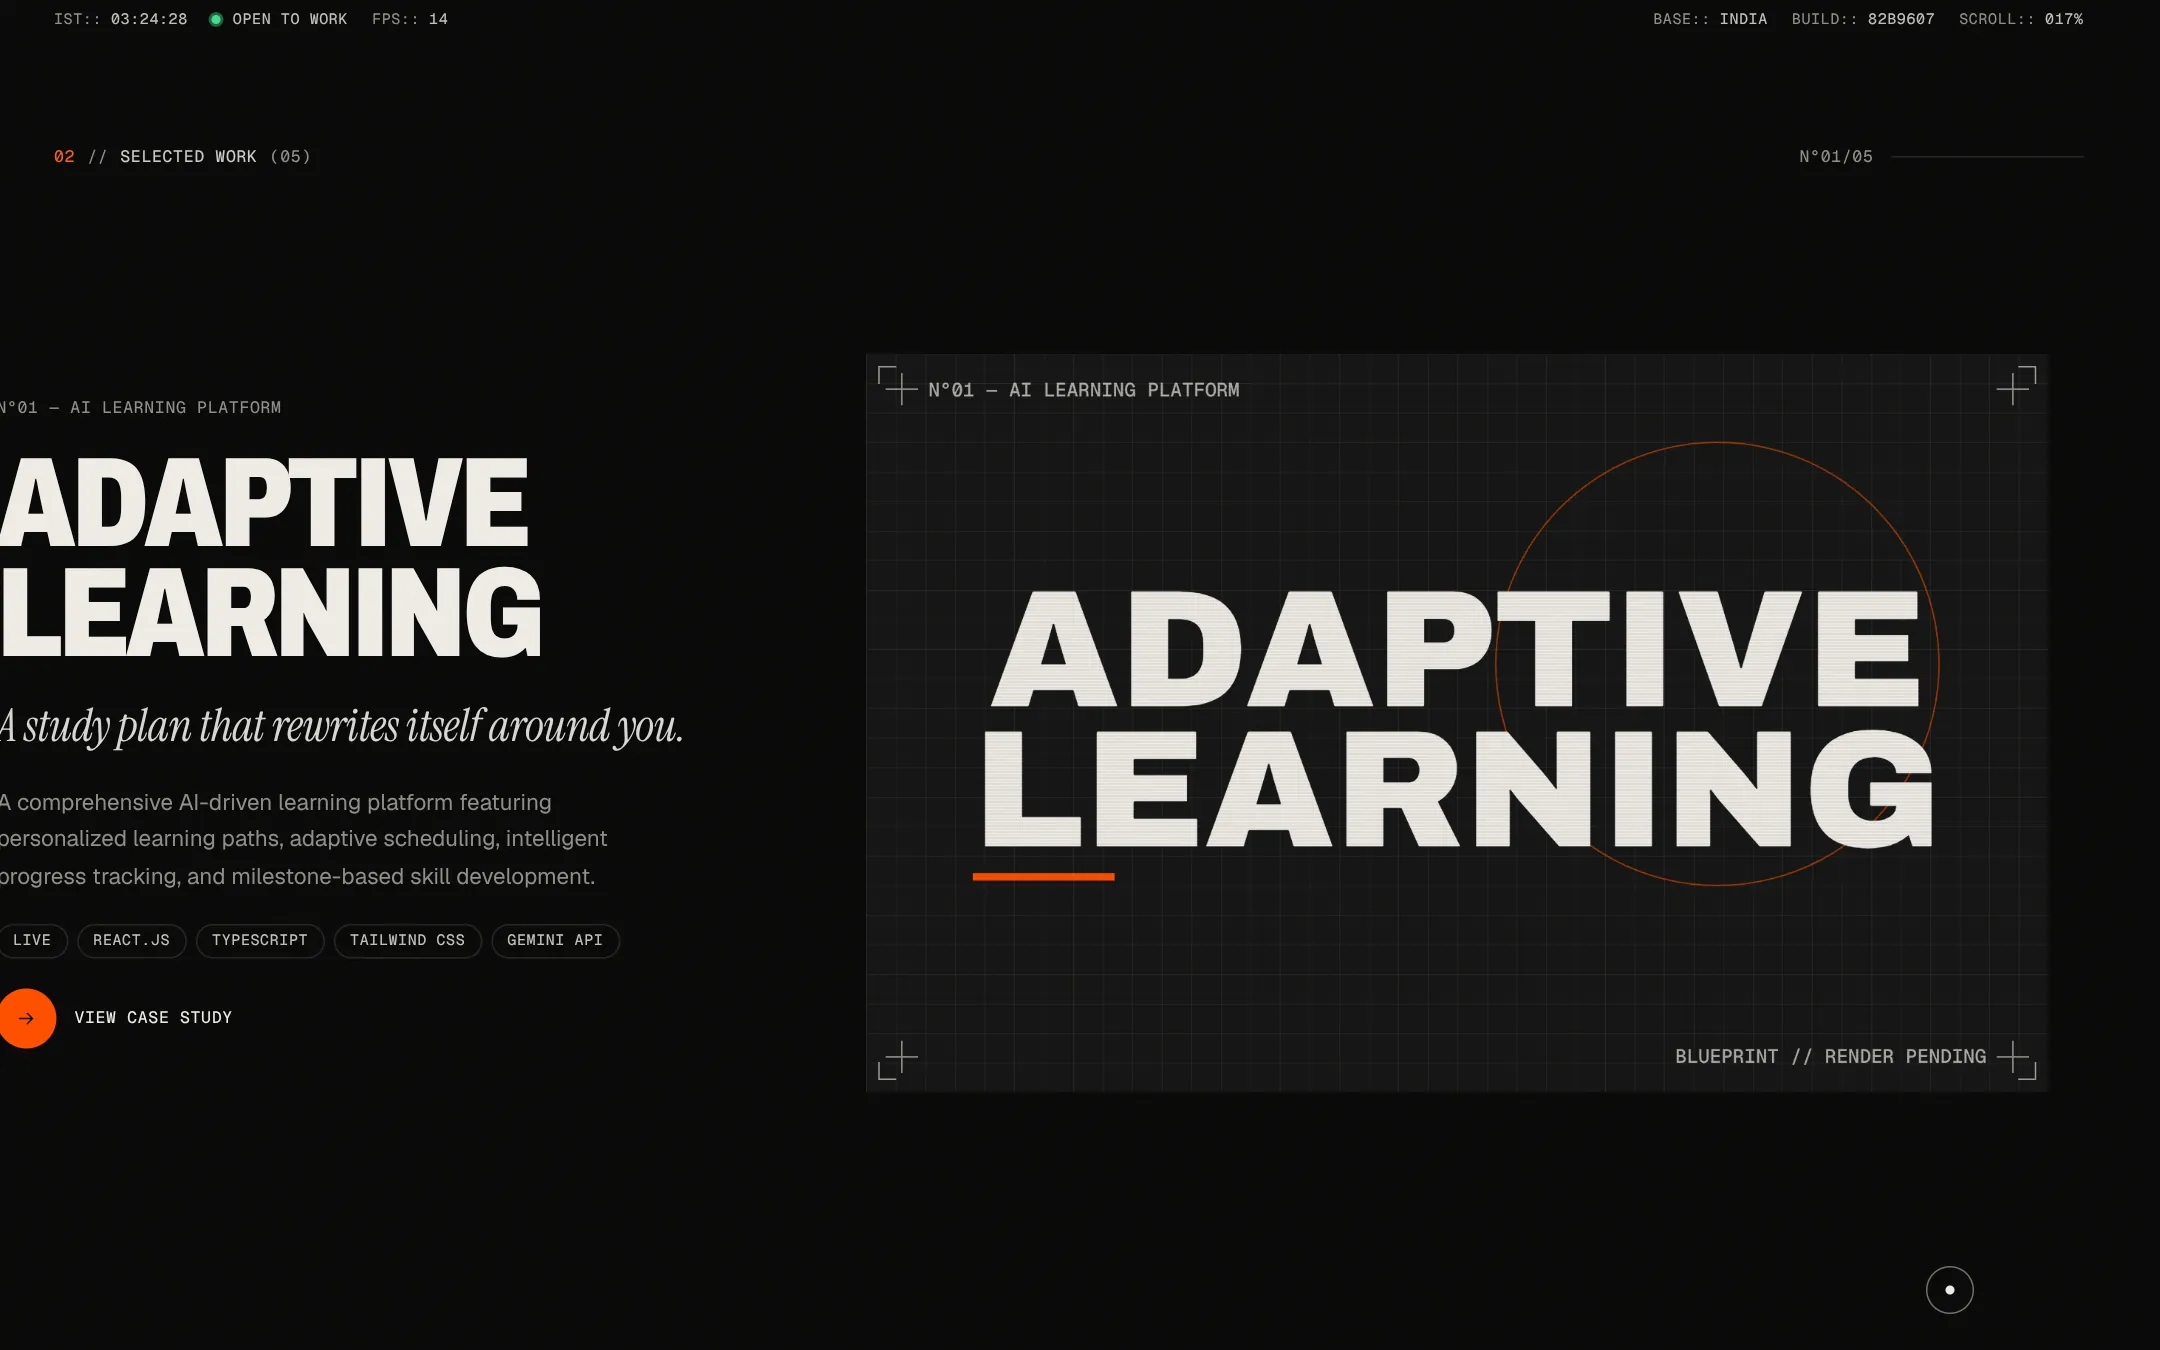
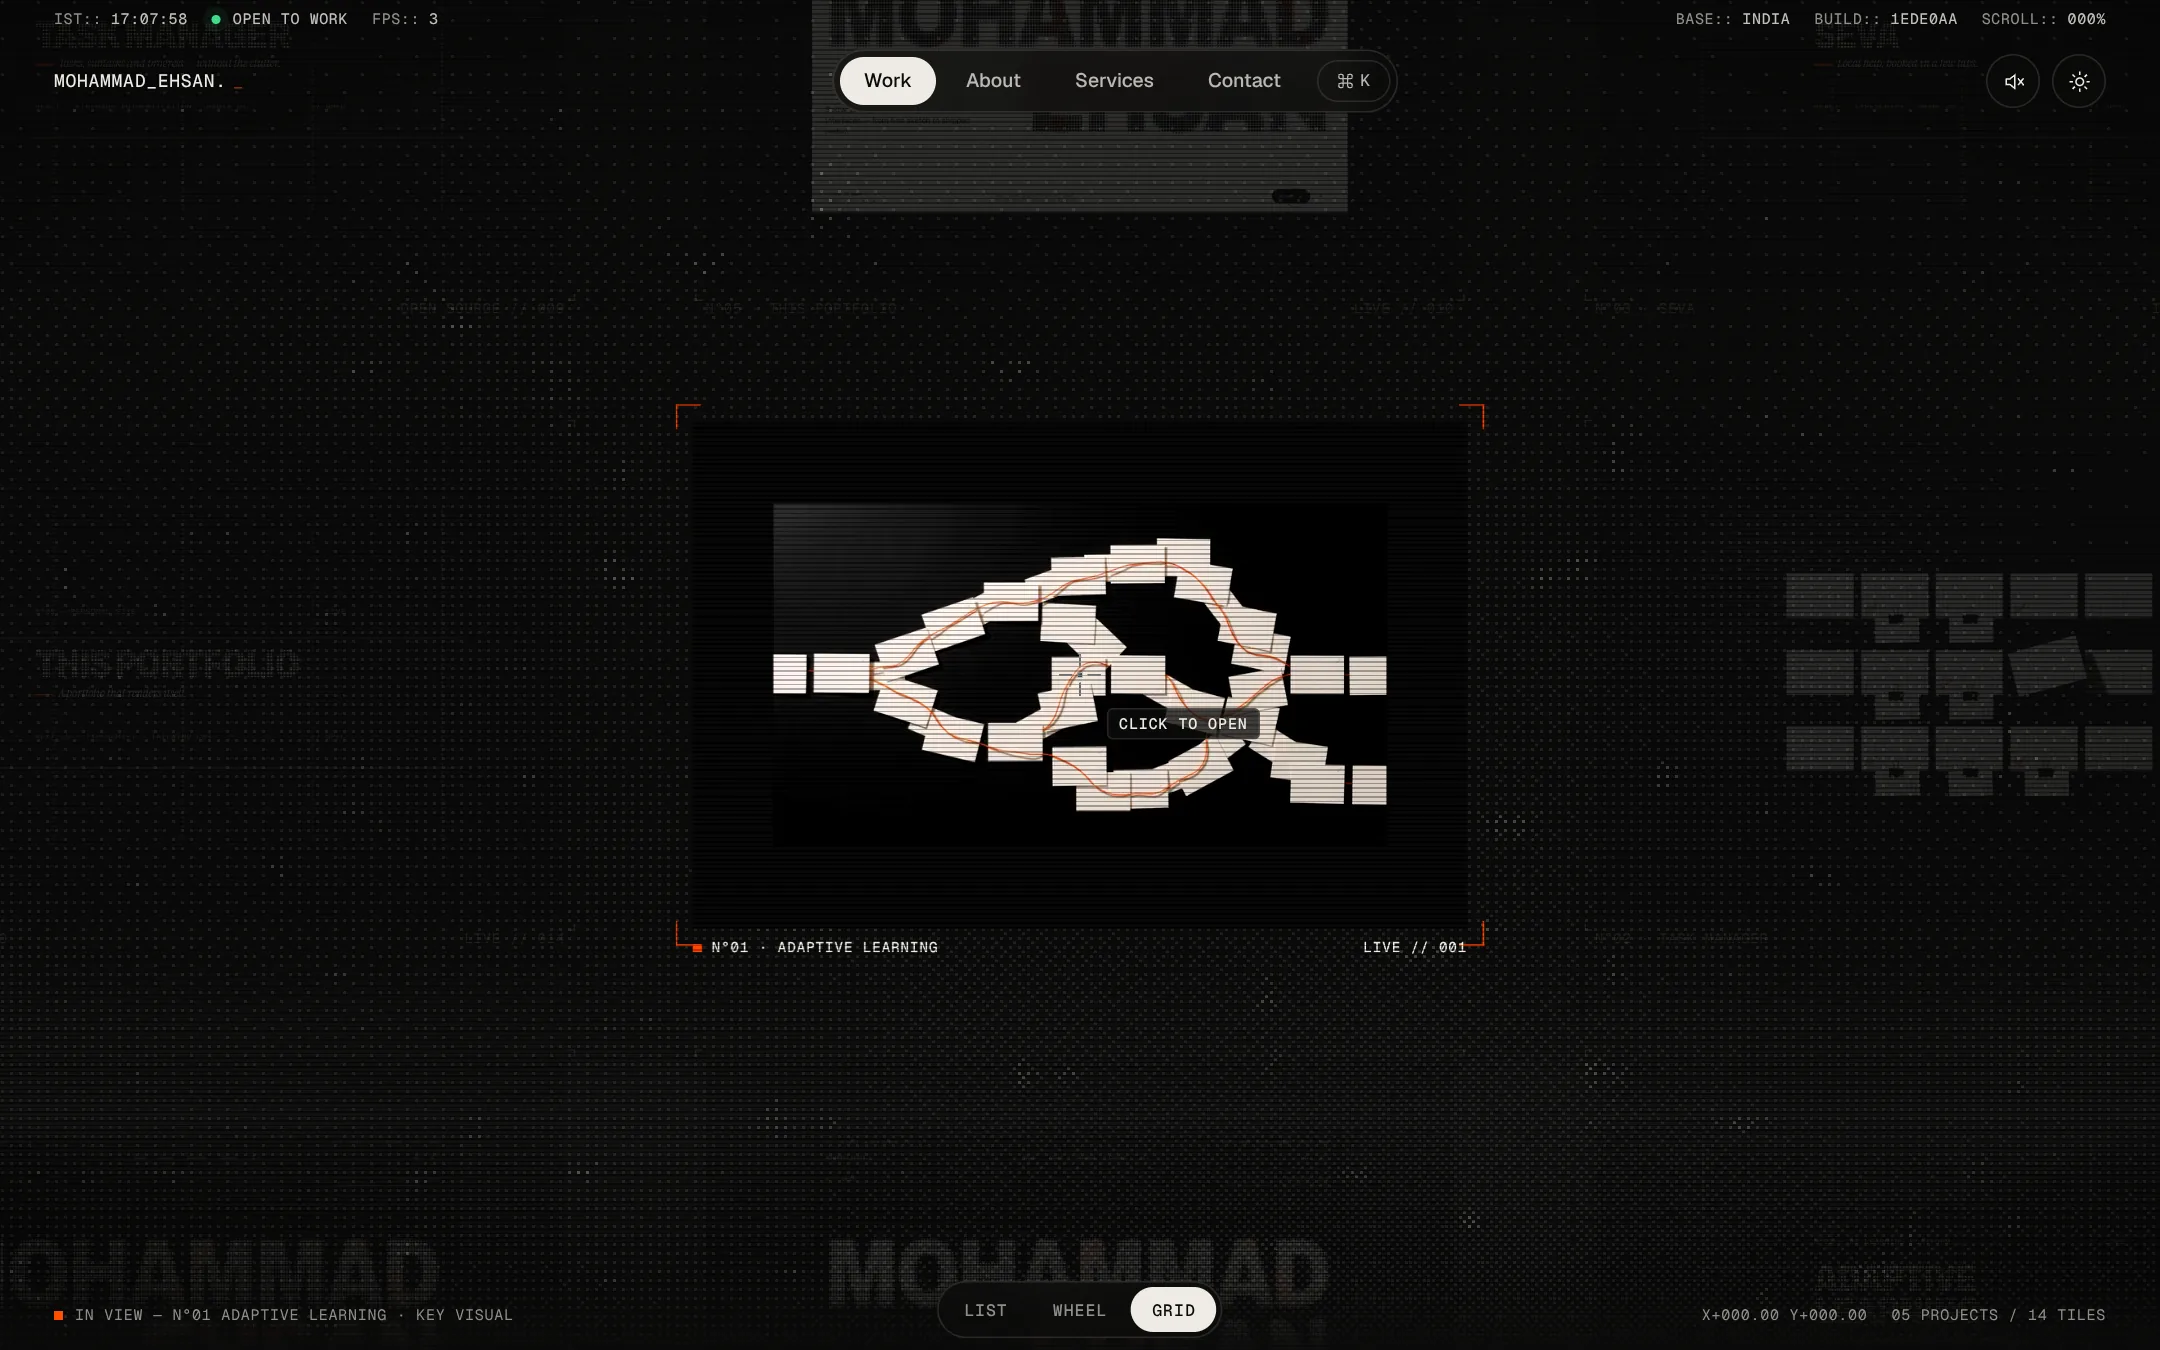
Refresh this site's case study for the new home
New screenshots: the home stage in ink and paper, the /work field and the Services page. The feature list, stack note and captions now describe the 3D home.

diff --git a/content/projects.ts b/content/projects.ts
@@ -225,7 +225,7 @@ export const projects: Project[] = [
         type: "features",
         label: "Under the hood",
         items: [
-          { title: "Ink-field hero", body: "A WebGL halftone of my name with a diffusing trail simulation you can paint with the cursor." },
+          { title: "A home page in 3D", body: "A figure on a ring of dithered hills, in front of a halftone name you paint with the cursor. The cursor also renders the figure in full colour, and dragging orbits the camera." },
           { title: "Blueprint → render images", body: "Project images render as edge-detected blueprints and resolve to colour with a scanline sweep." },
           { title: "Dither page transitions", body: "An ordered-dither wipe and a shared-element morph between pages." },
           { title: "⌘K command menu", body: "Keyboard-first navigation and actions from anywhere on the site." },
@@ -237,7 +237,7 @@ export const projects: Project[] = [
         label: "Stack",
         items: [
           { name: "Next.js 16 + React 19", why: "Static, server-rendered pages with client islands." },
-          { name: "OGL", why: "A ~25 KB WebGL layer for the shaders, render targets and planes." },
+          { name: "OGL", why: "A small WebGL layer (about 13 KB gzipped, plus a 10 KB scene on the home page) for the shaders, render targets, planes and the 3D stage." },
           { name: "GSAP + Lenis", why: "Scroll-linked motion, split-text and smooth scrolling on one ticker." },
           { name: "Tailwind CSS 4", why: "Design tokens in CSS, themes via data attributes." },
           { name: "EmailJS", why: "Serverless contact form." },
@@ -247,10 +247,10 @@ export const projects: Project[] = [
         type: "gallery",
         label: "Screens",
         images: [
-          { src: "/media/work/personal-portfolio/shot-1.webp", alt: "Hero — the halftone ink field, painted in signal orange", caption: "Hero ink field — paint the name to render it" },
-          { src: "/media/work/personal-portfolio/shot-2.webp", alt: "Selected work reel with a blueprint project poster", caption: "Selected work — sticky horizontal reel" },
-          { src: "/media/work/personal-portfolio/shot-3.webp", alt: "Paper theme with the halftone name in ink", caption: "Paper theme" },
-          { src: "/media/work/personal-portfolio/shot-4.webp", alt: "Services section with tilted process cards", caption: "Services — tilted process cards" },
+          { src: "/media/work/personal-portfolio/shot-1.webp", alt: "Home stage: a dithered figure on a ridge in front of the halftone name, with an orange stroke painted across it", caption: "Home — paint the name, render the figure" },
+          { src: "/media/work/personal-portfolio/shot-2.webp", alt: "The work field: a drag-through grid of project tiles with one picture open in the middle", caption: "Work — the endless GRID field" },
+          { src: "/media/work/personal-portfolio/shot-3.webp", alt: "The home stage on the paper theme, with the figure and name in ink", caption: "Paper theme" },
+          { src: "/media/work/personal-portfolio/shot-4.webp", alt: "The Services page with the process cards fanned out and the list of offerings", caption: "Services — the process deck" },
         ],
       },
     ],
